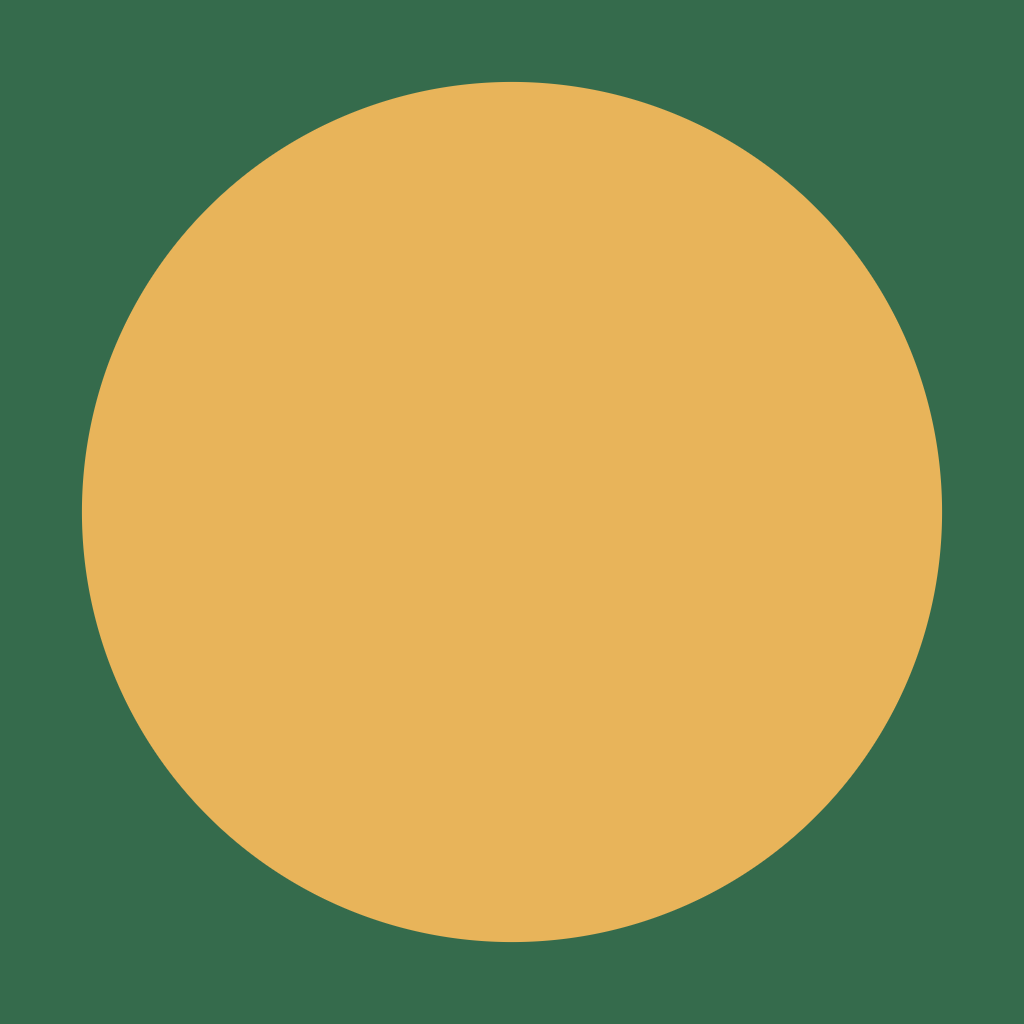
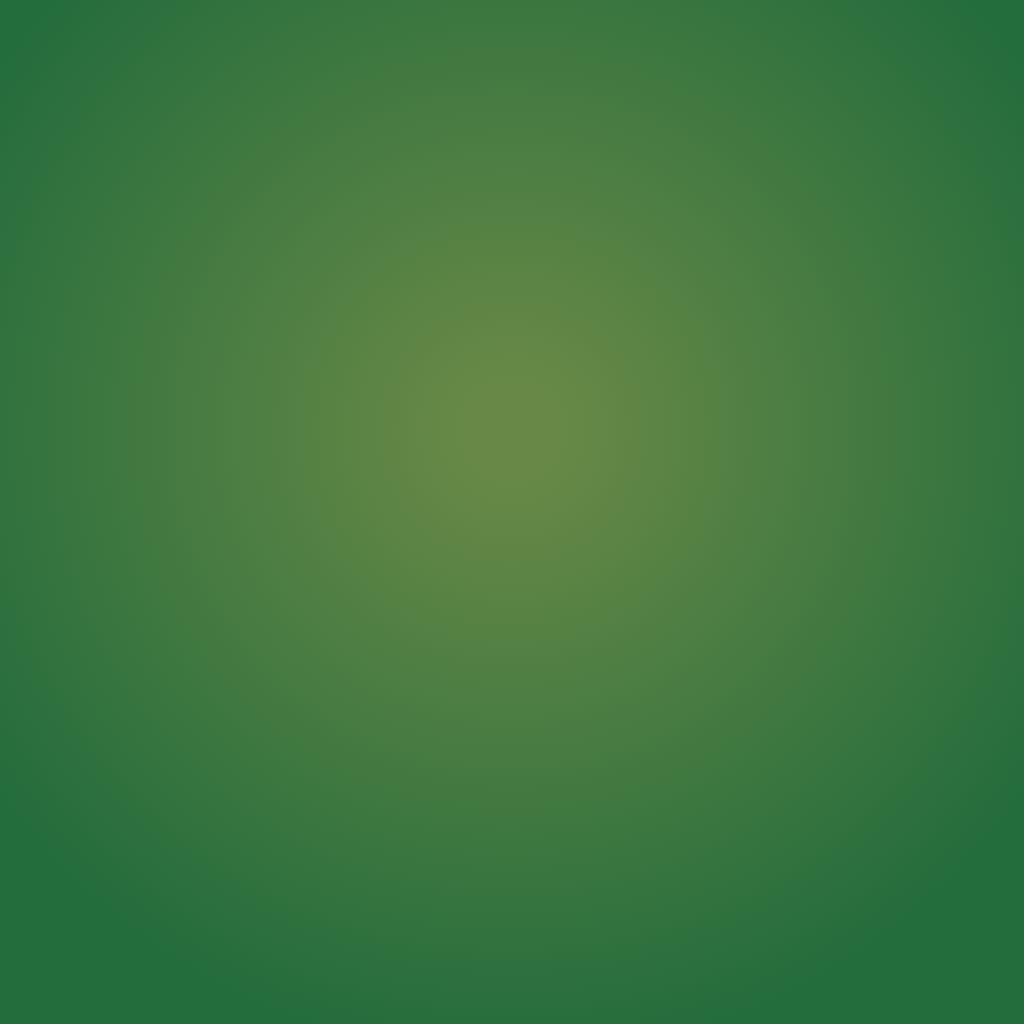
Fix: step back button did nothing while zoomed out to see the whole cove (it only ever exited cat-focus mode); add test-stepback regression test

diff --git a/index.html b/index.html
@@ -6190,6 +6190,9 @@ const ACCESSORIES = [
   { key:"wings",       label:"Little wings", iap:"sparkle_pack", slot:"back", group:"Sparkle", premium:true, blurb:"Small feathered wings that flutter on the cat's back — a slow flap at rest, faster on the zoomies." },
   { key:"moonwings",   label:"Moonlight wings", blessing:true, slot:"back", group:"Blessing", premium:true, blurb:"Crescent-feather wings that glow with the moon. Included with Midknight’s Blessing: they sleep if it ends and wake when you renew." },
   { key:"rainbow",     label:"Rainbow trail",iap:"sparkle_pack", slot:"aura", group:"Sparkle", premium:true, blurb:"A ribbon of colour that streams behind the cat as it moves and fades when it settles." },
+  // PREVIEW ONLY — placeholder pricing pending confirmation. Shell-bought (no IAP/Blessing gate), a step above every other accessory.
+  { key:"butterflywings", label:"Butterfly wings", price:6500, slot:"back", group:"Rare", premium:true, blurb:"Warm coral wings with a real wingbeat — a slow open-close at rest, quick on the zoomies." },
+  { key:"fairywings",     label:"Fairy wings",     price:9000, slot:"back", group:"Rare", premium:true, blurb:"Translucent lavender-and-blue wings with a soft shimmer and a twinkle of sparkles." },
 ];
 ACCESSORIES.push(...window.LITTLE_MATCH_REWARDS.map(r=>({...r,memoryLevel:r.level,group:'Little Matches',price:0})));
 // Endless-mode milestone cosmetics — granted every 50 rounds (see
@@ -8381,7 +8384,12 @@ function openCares() {
   if (typeof trackEvent === "function") trackEvent("cares_opened", { supported: done });
 }
 document.getElementById("helpBtn").addEventListener("click", openGuide);
-document.getElementById("focusBar").addEventListener("click", exitFocus);
+document.getElementById("focusBar").addEventListener("click", () => {
+  // "step back" is shared by two different modes (focused on a cat, or the whole-cove zoom-out) — exitFocus() alone
+  // only ever cleared the former, so tapping it while zoomed out did nothing and the view stayed stuck zoomed out.
+  if (_focus) exitFocus();
+  else if (_ovTarget > 0 || _ovActive) ovSetTarget(0);
+});
 document.getElementById("foodStat").addEventListener("click", openFoodRefill);   // v3: refill food from the HUD too
 document.getElementById("catPill").addEventListener("click", () => {             // v3: the cat count opens the cove roster
   if (rosterEl.hidden) openRoster(); else closeRoster();
@@ -17530,6 +17538,85 @@ function drawMoonWings(g, P, rate, kit) {
   }
   g.restore();
 }
+// Butterfly wings — a real wingbeat (not just a tilt): two lobes per side in a warm coral gradient,
+// dark veins and cream spots, opening wider at the top of each beat.
+function drawButterflyWings(g, P, rate, kit) {
+  const t = performance.now() / 1000;
+  const flap = Math.sin(t * (rate || 3));
+  const open = 0.62 + flap * 0.30;
+  const by = P.top + 7, root = P.bw * 0.42, sc = (kit ? 1.0 : 1.4);
+  for (const s of [-1, 1]) {
+    g.save();
+    g.translate(s * root, by);
+    g.rotate(s * (-0.22 - open * 0.55));
+    g.scale(s * sc, sc);
+    g.lineJoin = "round";
+    const ug = g.createLinearGradient(0, -26, 15, -4);
+    ug.addColorStop(0, "#f0894a"); ug.addColorStop(0.55, "#e8663f"); ug.addColorStop(1, "#c8452f");
+    g.fillStyle = ug; g.strokeStyle = "#5a2a1c"; g.lineWidth = 1.1;
+    g.beginPath();
+    g.moveTo(0, 2);
+    g.bezierCurveTo(2, -9, 3, -20, 11, -26);
+    g.bezierCurveTo(18, -30, 22, -24, 20, -16);
+    g.bezierCurveTo(19, -9, 12, -2, 4, 3);
+    g.closePath(); g.fill(); g.stroke();
+    const lg = g.createLinearGradient(0, 0, 12, 14);
+    lg.addColorStop(0, "#e8663f"); lg.addColorStop(1, "#c8452f");
+    g.fillStyle = lg;
+    g.beginPath();
+    g.moveTo(1, 3);
+    g.bezierCurveTo(4, 7, 9, 10, 10, 16);
+    g.bezierCurveTo(10.5, 20, 6, 21, 2, 17);
+    g.bezierCurveTo(-0.5, 13, -1, 7, 1, 3);
+    g.closePath(); g.fill(); g.stroke();
+    g.strokeStyle = "rgba(74,34,22,0.6)"; g.lineWidth = 0.8;
+    g.beginPath(); g.moveTo(2, -2); g.quadraticCurveTo(8, -12, 15, -22); g.stroke();
+    g.beginPath(); g.moveTo(3, 0); g.quadraticCurveTo(9, -8, 17, -15); g.stroke();
+    g.fillStyle = "#faf1dc";
+    g.beginPath(); g.ellipse(13, -19, 2.1, 1.5, 0.5, 0, 7); g.fill();
+    g.beginPath(); g.ellipse(6, -12, 1.4, 1, 0.4, 0, 7); g.fill();
+    g.beginPath(); g.ellipse(6, 14, 1.6, 1.1, -0.3, 0, 7); g.fill();
+    g.restore();
+  }
+}
+// Fairy wings — translucent lavender/blue lobes with fine radiating veins, a bright leading edge
+// and a couple of independently-twinkling sparkles.
+function drawFairyWings(g, P, rate, kit) {
+  const t = performance.now() / 1000, flap = Math.sin(t * (rate || 2.6)) * 0.5 + 0.5;
+  const by = P.top + 8, root = P.bw * 0.44, sc = (kit ? 1.02 : 1.42);
+  const shimmer = 0.5 + Math.sin(t * 1.6) * 0.5;
+  for (const s of [-1, 1]) {
+    g.save();
+    g.translate(s * root, by);
+    g.rotate(s * (-0.16 - flap * 0.12));
+    g.scale(s * sc, sc);
+    g.lineJoin = "round";
+    const lobe = (len, wid, tilt, hue) => {
+      g.save(); g.rotate(tilt);
+      const gr = g.createLinearGradient(0, 0, 0, -len);
+      gr.addColorStop(0, "rgba(255,255,255,0.05)");
+      gr.addColorStop(0.5, hue + ",0.5)"); gr.addColorStop(1, hue + ",0.22)");
+      g.fillStyle = gr;
+      g.beginPath();
+      g.moveTo(0, 2);
+      g.bezierCurveTo(wid, -len * 0.3, wid * 0.85, -len * 0.78, 0, -len);
+      g.bezierCurveTo(-wid * 0.85, -len * 0.78, -wid, -len * 0.3, 0, 2);
+      g.closePath(); g.fill();
+      g.strokeStyle = "rgba(255,255,255,0.55)"; g.lineWidth = 0.7; g.stroke();
+      g.strokeStyle = "rgba(255,255,255,0.4)";
+      for (let i = -1; i <= 1; i++) { g.beginPath(); g.moveTo(0, 0); g.quadraticCurveTo(wid * 0.4 * i, -len * 0.5, wid * 0.7 * i, -len * (0.82 - Math.abs(i) * 0.08)); g.stroke(); }
+      g.restore();
+    };
+    lobe(30, 15, -0.28, "rgba(196,176,238");
+    lobe(19, 10, 0.34, "rgba(150,206,222");
+    g.strokeStyle = "rgba(255,255,255," + (0.35 + shimmer * 0.4) + ")"; g.lineWidth = 1;
+    g.beginPath(); g.moveTo(0, 1); g.quadraticCurveTo(9, -16, 2, -30); g.stroke();
+    g.fillStyle = "#fff";
+    const spark = (x, y, ph) => { const a = Math.max(0, Math.sin(t * 3 + ph)); if (a < 0.05) return; g.globalAlpha = a; g.beginPath(); g.arc(x, y, 1.1, 0, 7); g.fill(); g.globalAlpha = 1; };
+    spark(9, -20, 0); spark(4, -9, 2.1);
+    g.restore();
+  }
+}
 function drawTail(g, P, coat, mode, wag) {
   const pts = coat.pattern === "points" || coat.pattern === "lynxpoint" || coat.pattern === "van";
   g.fillStyle = pts ? coat.point : coat.base;
@@ -17813,6 +17900,10 @@ function drawCat(g, c, isPhoto) {
   // Moonlight wings (Midknight's Blessing) — only while the Blessing is awake
   if (c.worn && c.worn.includes("moonwings") && blessingActive())
     drawMoonWings(g, P, c.state === "zooming" ? 9 : (c.trotting ? 5 : 2.4), kit);
+  if (c.worn && c.worn.includes("butterflywings"))
+    drawButterflyWings(g, P, c.state === "zooming" ? 13 : (c.trotting ? 6 : 3), kit);
+  if (c.worn && c.worn.includes("fairywings"))
+    drawFairyWings(g, P, c.state === "zooming" ? 9 : (c.trotting ? 5 : 2.4), kit);
 
   // ears (behind head) — a little flop on the bounce; pinned back mid-zoom
   const zoom = c.state === "zooming" || c.state === "tag";
@@ -20237,6 +20328,7 @@ window.__cove = {
   get world(){return {W, H, catFloor: catFloor()}},
   sound(){ return { duck:_cafeDuck, amb: ambience ? +ambience.master.gain.value.toFixed(3) : null, cafeAmb: !!_cafeAmb }; },
   tap:(x,y)=>handleTap(x,y,0,0), propPos:(id)=>propPos(id), propCard:()=>{const el=document.getElementById("propCard");return {hidden:el.hidden,title:document.getElementById("pc-title").textContent,desc:document.getElementById("pc-desc").textContent};},
+  ov(){ return { target:_ovTarget, active:_ovActive, t:_ovT, focusing:document.getElementById("app").classList.contains("focusing"), focus:!!_focus, cold:!!_cold, panel:anyPanelOpen() }; }, ovSet:(v)=>ovSetTarget(v), stepBack:()=>document.getElementById("focusBar").click(), forceFocus:(c)=>enterFocus(c||cats.find(x=>!x.visitor)),
   race(){ return { phase:racePhase, t:raceT, len:_raceLenNow.name, m:_raceLenNow.m, cap:_raceLenNow.cap, cats:raceCats.map(r=>({n:r.cat.name,p:r.progress,done:r.done,at:r.doneAt})) }; },
   journalProfile(){ const out={}, T=(n,fn)=>{const t=performance.now();try{fn();}catch(e){out[n+'_err']=String(e).slice(0,50);}out[n]=+(performance.now()-t).toFixed(1);};
     T('neoRenderJournal',()=>neoRenderJournal()); T('neoFriendsJournal',()=>neoFriendsJournal()); T('checkin',()=>renderCheckinCard()); T('project',()=>renderProjectCard());

diff --git a/CHANGELOG.md b/CHANGELOG.md
@@ -1,3 +1,20 @@
+## Neo testing — September 22, 2026 (step back fix)
+
+- Fixed: the '‹ step back' bar did nothing while looking at the whole cove (pinch zoom-out) — it only ever closed cat-focus mode, so tapping it during zoom-out left the view stuck zoomed out. It now correctly zooms back in either way.
+
+## Catmint Cove 3.4.0 — September 22, 2026 (based on 3.3.0)
+
+- **New app icon:** Midknight's face on a moonlit night, on both iOS and Android (Android's adaptive icon has its own foreground/background layers redrawn to match).
+- **Cove Race lengths:** choose a Sprint (50 m), Cove Run (100 m) or Long Haul (200 m) before racing, with a distance readout and the course named on the result card. Longer runs add late kicks, fades and catch-up so the lead changes hands.
+- **Cove Race picker:** the length choice and Start stay in view with a big cove — only the cat list scrolls.
+- **Catmint Café:**
+  - A slimmer top bar on phones, full-width on iPad and larger, with a moss-green menu dock (Menu/Pantry/Report/Upgrades) instead of white-on-white.
+  - The outside view is no longer cropped on phones, and on tablets it's pulled back so the whole café and garden read, with no seam at the edges and no guests cut off mid-walk.
+  - Opening Menu, Pantry, Report or Upgrades no longer zooms or rescales the scene.
+  - The cove's own sound (waves, birds, cat calls) goes quiet while the café is open, and returns when you leave.
+  - A bell when a fresh order starts brewing, and a meow or purr from the cat you serve, matched to how they liked it.
+- **Decor:** Midknight's Guardian statue and the Postcard Board are now tappable, showing a small card with their name and description. The Guardian's statue also moved out of a crowded spot between the Reading Lamp and the Photo Easel into open ground.
+
 ## Neo testing — September 22, 2026 (decor spacing)
 
 - Midknight's Guardian statue no longer stands wedged between the Reading Lamp and the Photo Easel — its default spot moved to open ground between the Reading Nook and the Moonlight Swing, with grass between it and its neighbors.
